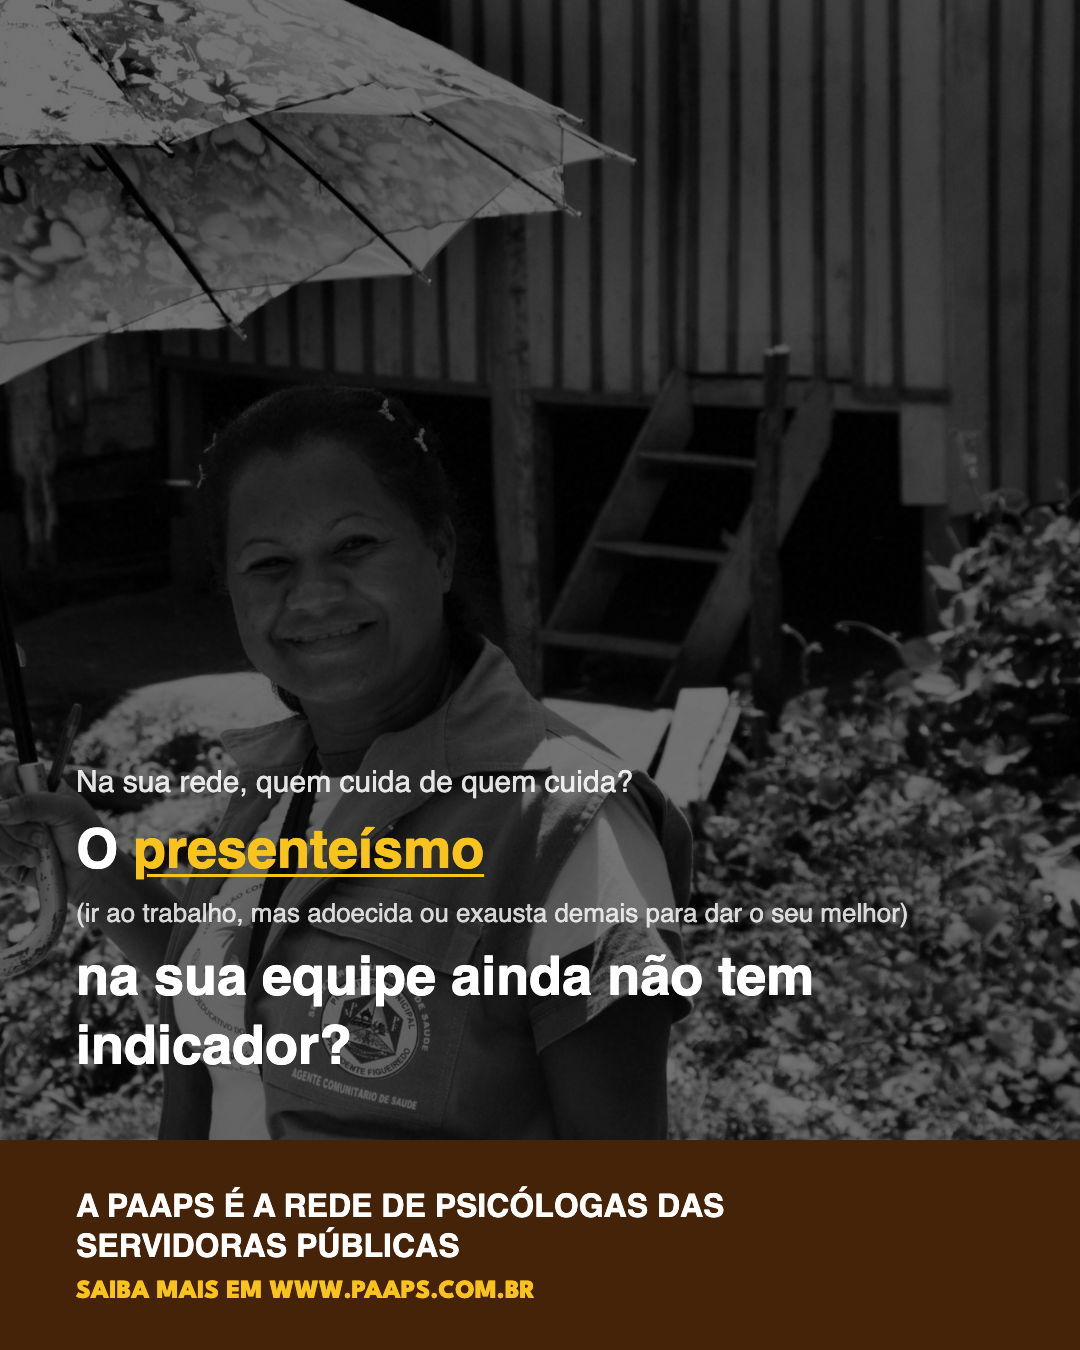
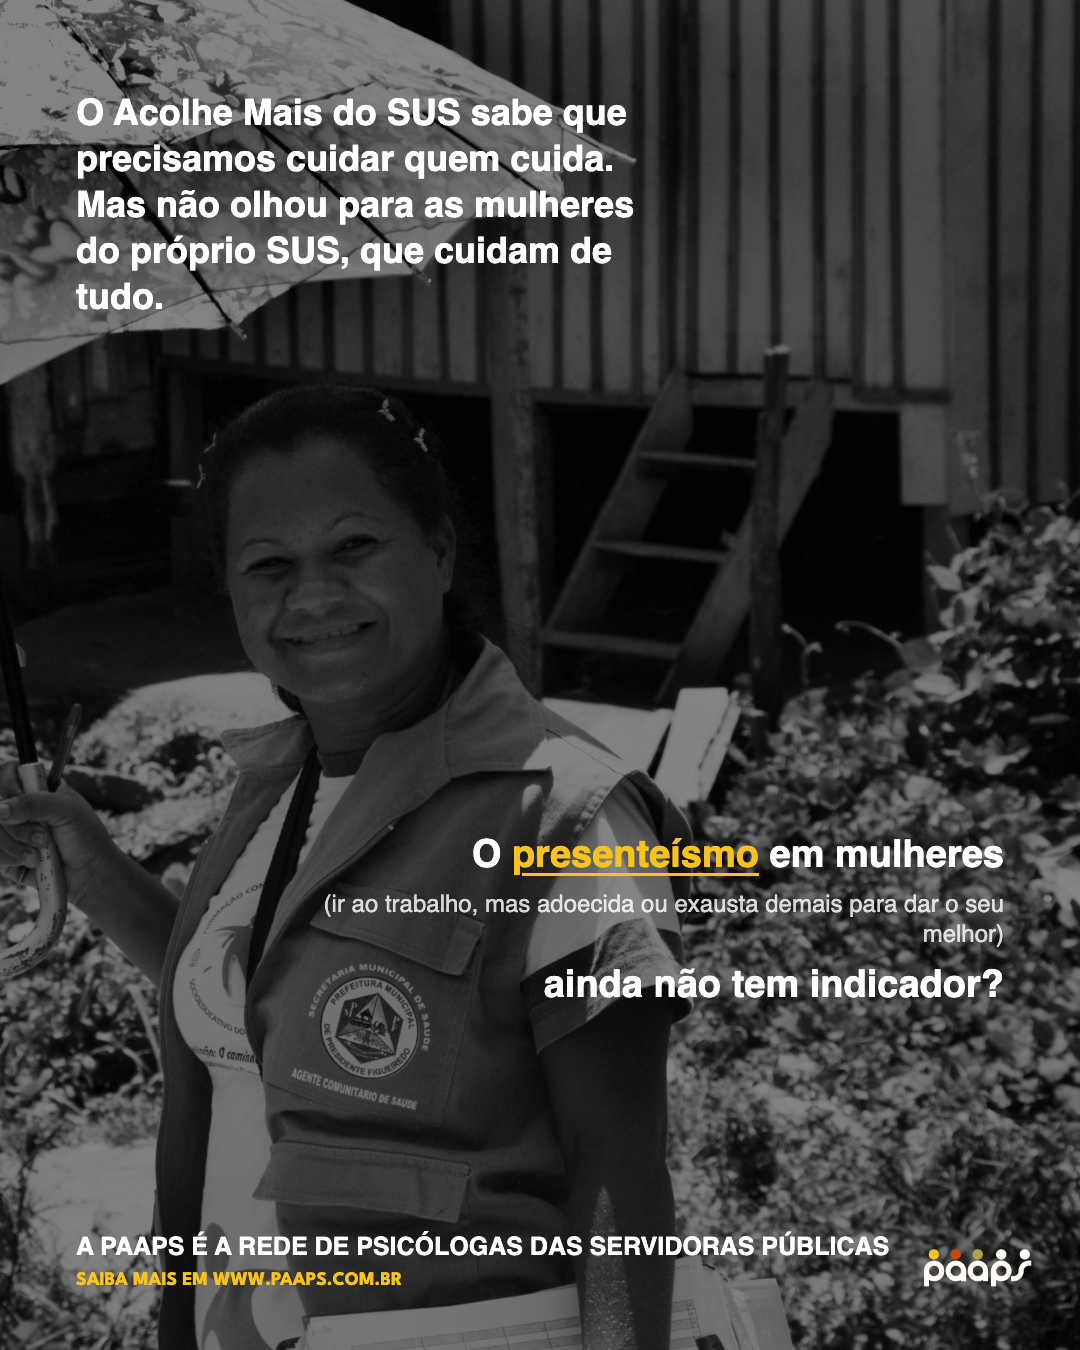
auto: conteudo, sessoes - 2026-08-31 09:56

Changed region(s): [[0.0, 0.84, 1.0, 1.0], [0.0611, 0.56, 0.9472, 0.8089], [0.0611, 0.0622, 0.5806, 0.2489]]

diff --git a/conteudo/PARA-APROVAR-mulheres-no-cuidado/montagem-30-08/index.html b/conteudo/PARA-APROVAR-mulheres-no-cuidado/montagem-30-08/index.html
@@ -124,8 +124,8 @@
   #s8 .escurecer{background:rgba(0,0,0,0.48);}
   #s8 .abertura{position:absolute;left:76px;top:90px;width:560px;z-index:2;
                  font-family:var(--fonte-titulo);font-weight:700;font-size:36px;line-height:1.28;color:var(--cor-branco);}
-  #s8 .zona-pergunta{position:absolute;right:76px;left:520px;top:830px;z-index:2;text-align:right;}
-  #s8 .pergunta{font-size:46px;font-weight:700;line-height:1.28;white-space:nowrap;}
+  #s8 .zona-pergunta{position:absolute;right:76px;left:260px;top:830px;z-index:2;text-align:right;}
+  #s8 .pergunta{font-size:38px;font-weight:700;line-height:1.28;white-space:nowrap;}
   #s8 .pergunta .glossa{display:block;font-family:var(--fonte-titulo);font-size:24px;font-weight:400;
                          color:rgba(255,255,255,0.82);margin-top:10px;white-space:normal;}
   #s8 .pergunta .linha2{display:block;margin-top:10px;white-space:normal;}

diff --git a/sessoes/sessao-2026-08-31.md b/sessoes/sessao-2026-08-31.md
@@ -35,3 +35,18 @@
 ?? conteudo/PARA-APROVAR-mulheres-no-cuidado/montagem-30-08/export/tmp-8.png
 ```
 
+
+## 09:56
+```
+ M conteudo/PARA-APROVAR-mulheres-no-cuidado/montagem-30-08/export/slide-03a.png
+ M conteudo/PARA-APROVAR-mulheres-no-cuidado/montagem-30-08/export/slide-03b.png
+ M conteudo/PARA-APROVAR-mulheres-no-cuidado/montagem-30-08/export/slide-06.png
+ M conteudo/PARA-APROVAR-mulheres-no-cuidado/montagem-30-08/export/slide-07.png
+ M conteudo/PARA-APROVAR-mulheres-no-cuidado/montagem-30-08/export/slide-08.png
+ D conteudo/PARA-APROVAR-mulheres-no-cuidado/montagem-30-08/export/tmp-3.png
+ D conteudo/PARA-APROVAR-mulheres-no-cuidado/montagem-30-08/export/tmp-6.png
+ D conteudo/PARA-APROVAR-mulheres-no-cuidado/montagem-30-08/export/tmp-7.png
+ D conteudo/PARA-APROVAR-mulheres-no-cuidado/montagem-30-08/export/tmp-8.png
+ M conteudo/PARA-APROVAR-mulheres-no-cuidado/montagem-30-08/index.html
+```
+
